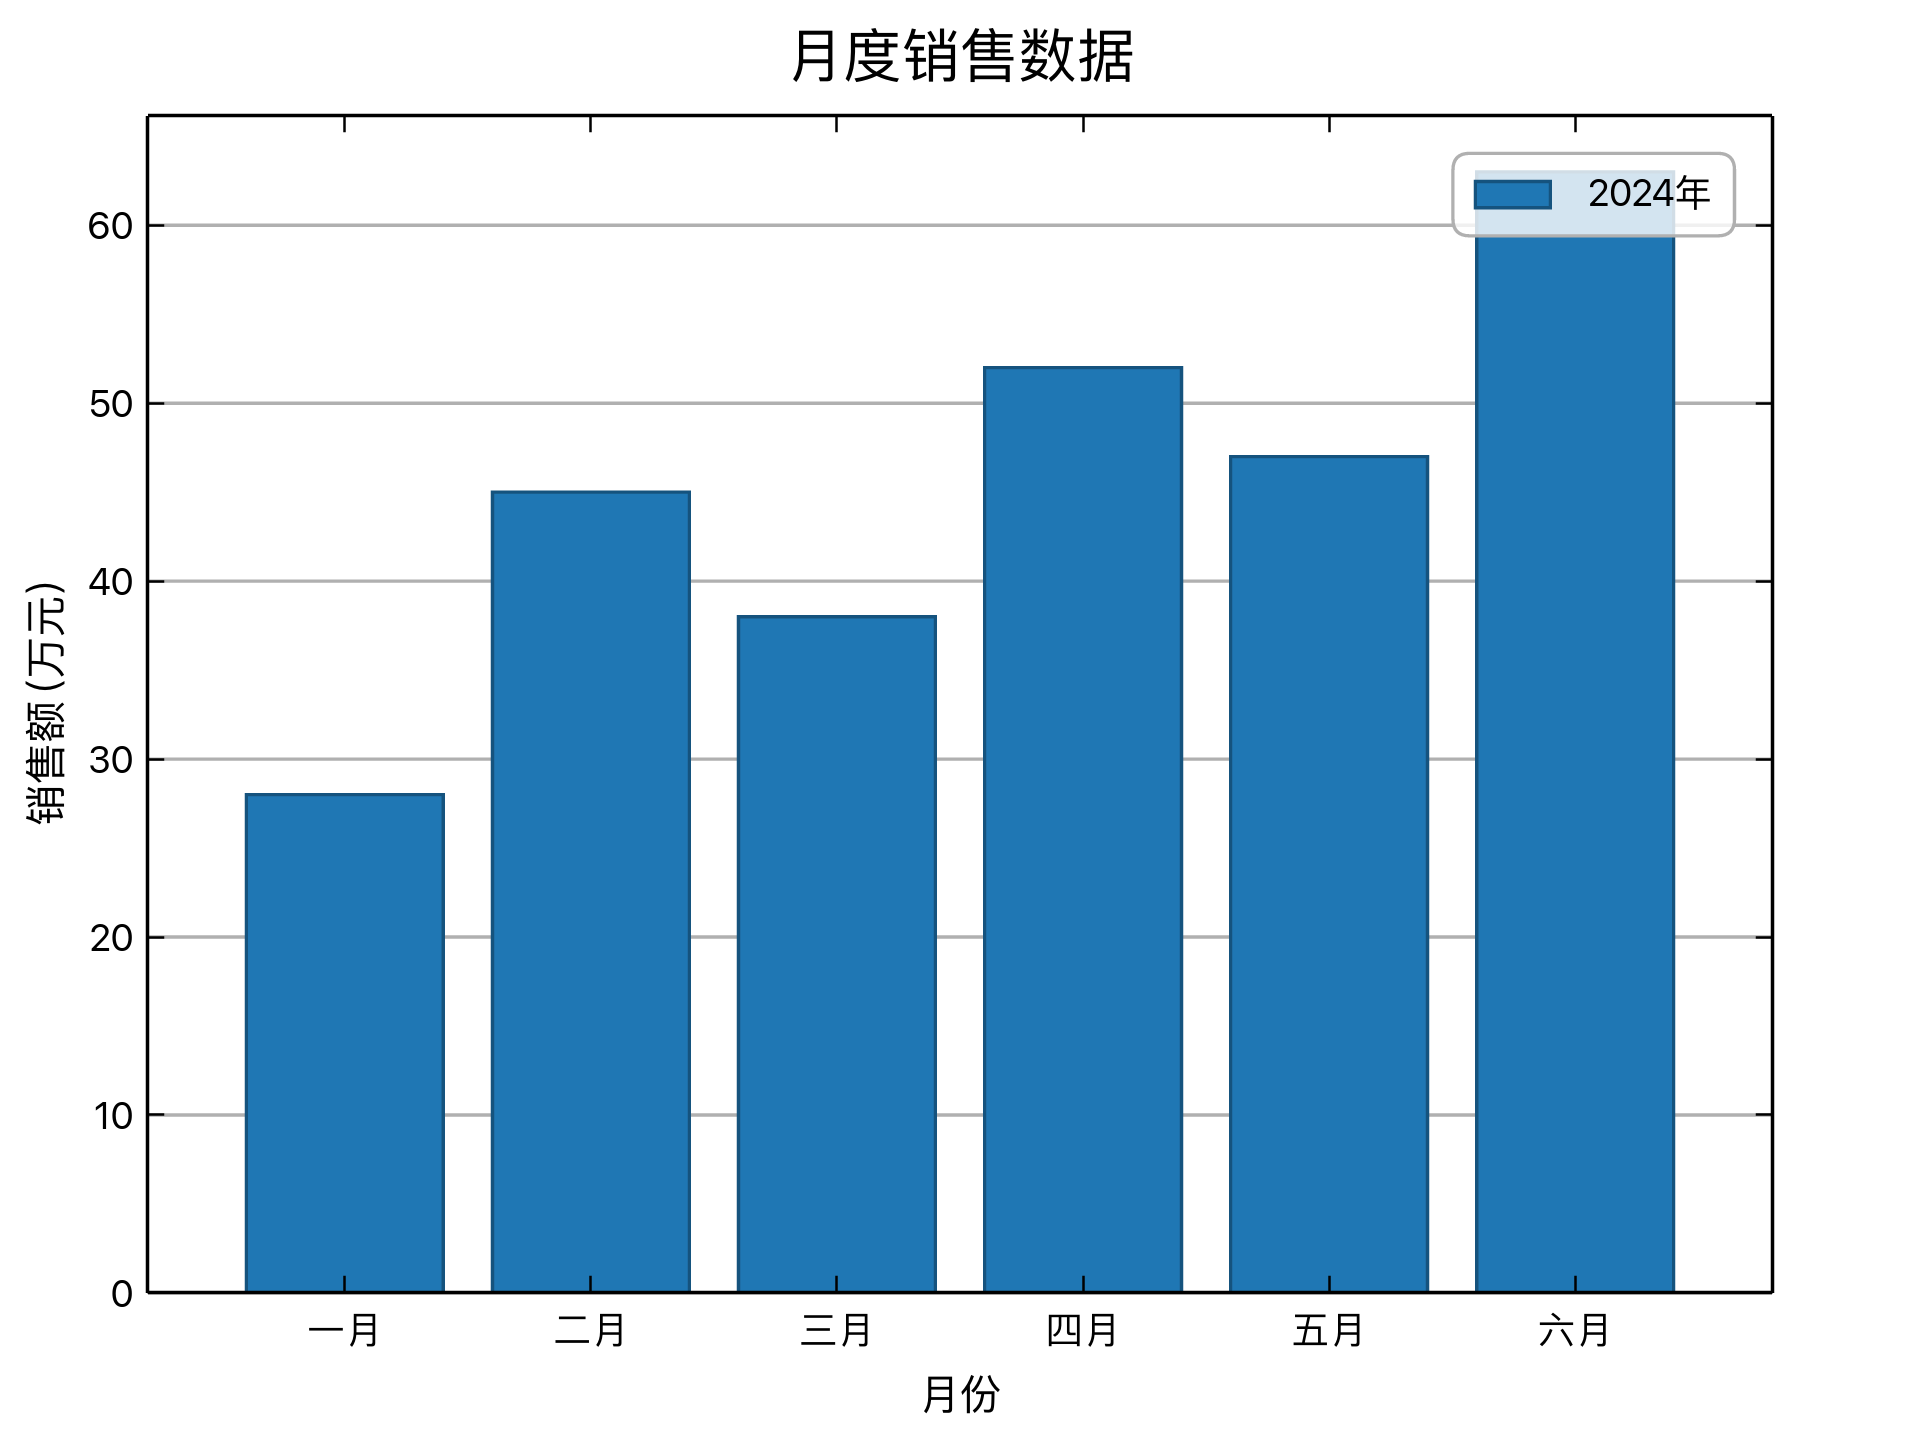
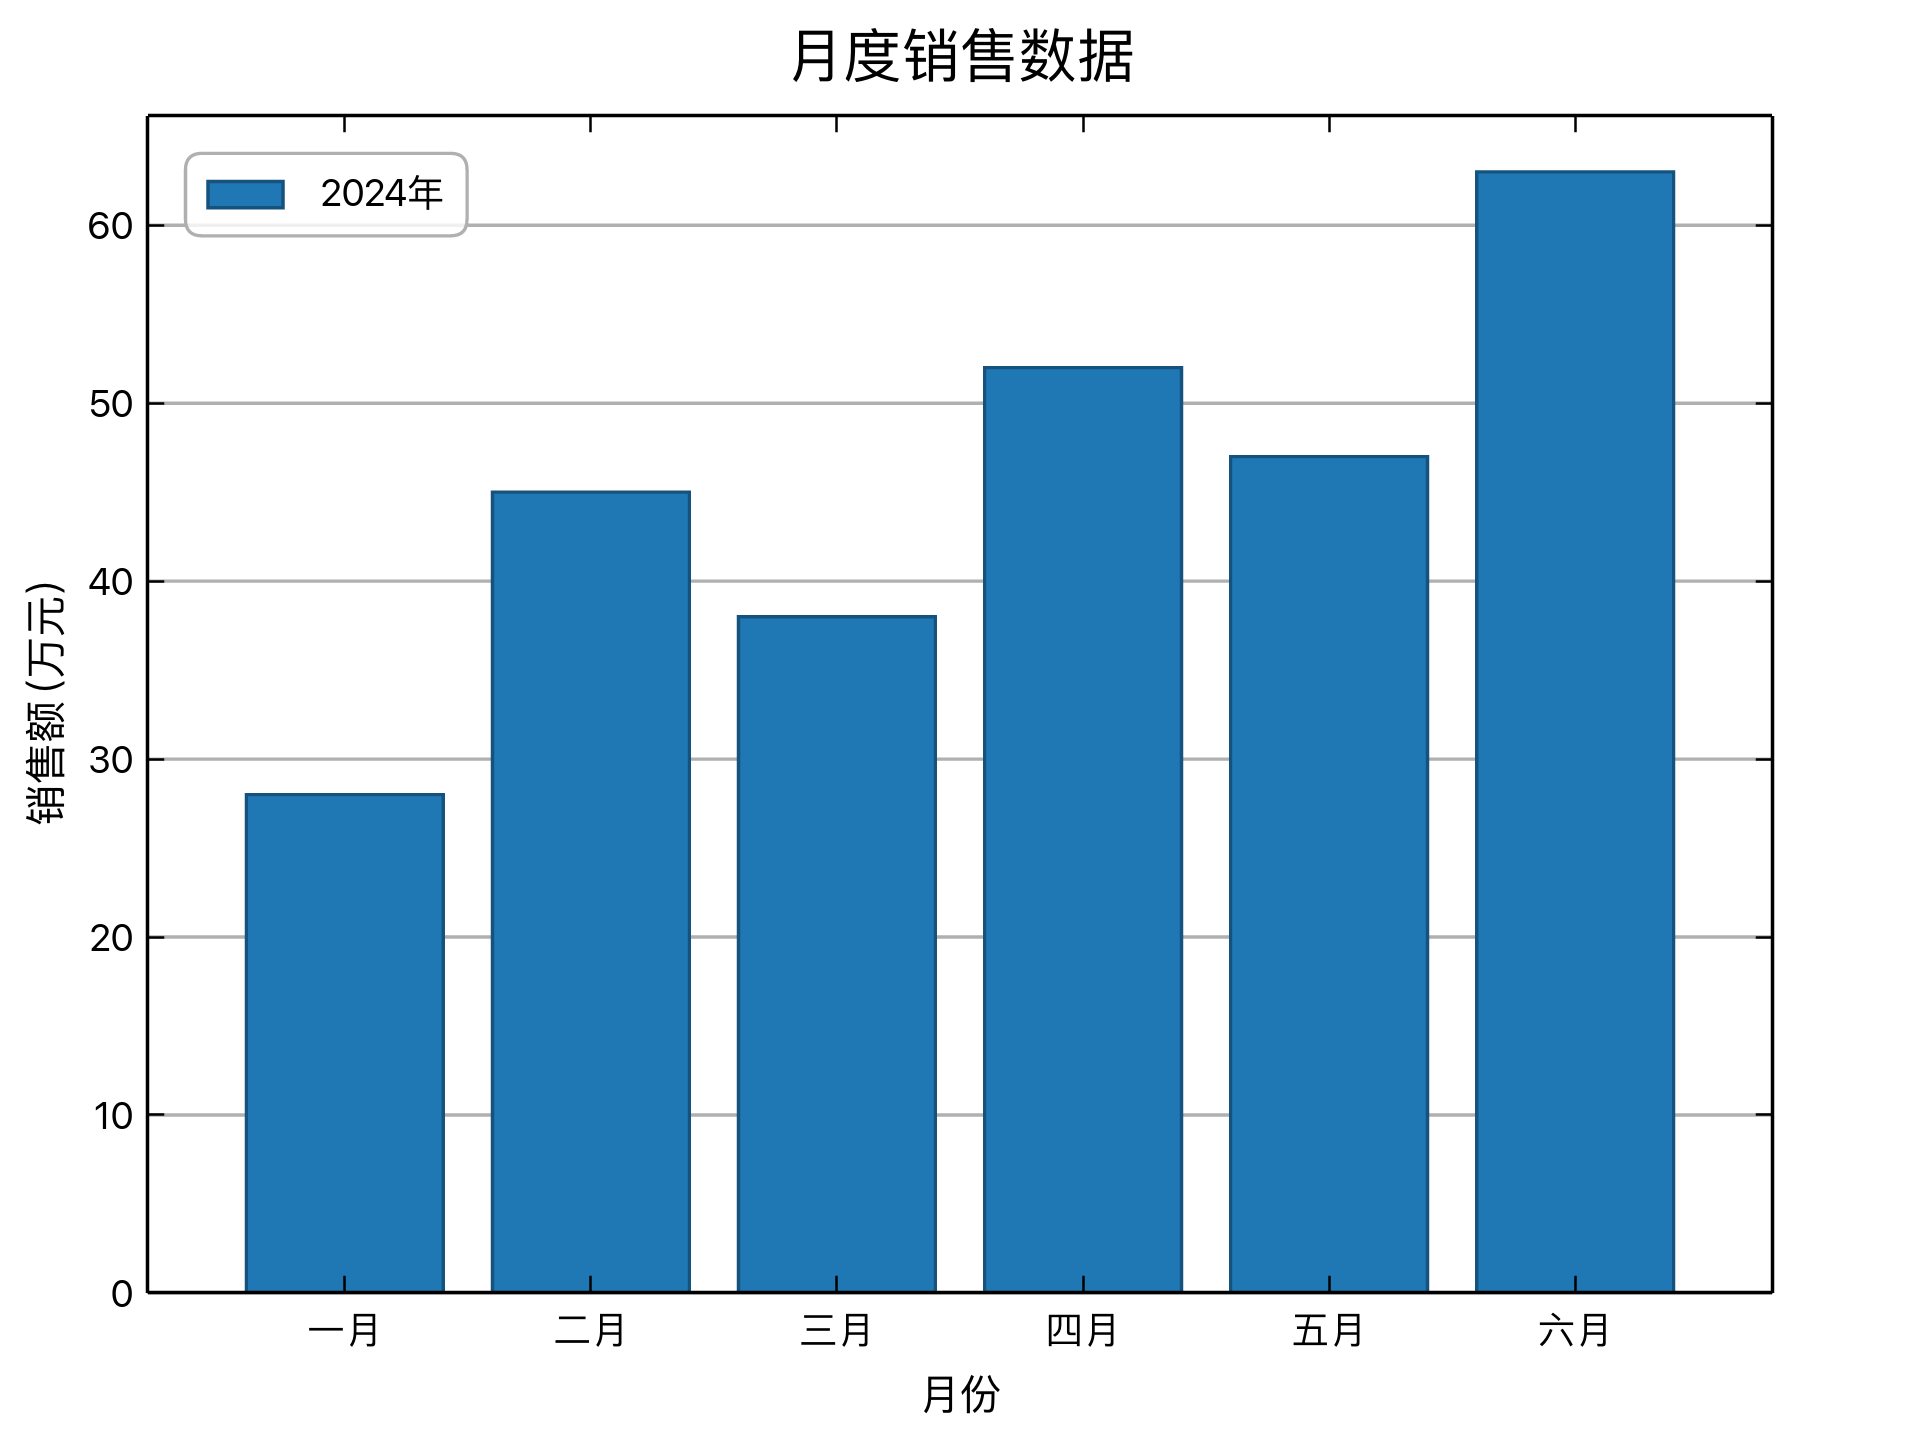
docs: add title and legend layout examples

Changed region(s): [[0.75, 0.0938, 0.9062, 0.1875], [0.0938, 0.0938, 0.25, 0.1875]]

diff --git a/src/core/plot/annotations.rs b/src/core/plot/annotations.rs
@@ -16,7 +16,8 @@ impl Plot {
     /// Configure legend with new position system
     ///
     /// Uses the matplotlib-compatible position codes including:
-    /// - `LegendPosition::Best` - automatic position to minimize data overlap
+    /// - `LegendPosition::Best` - automatic inside position minimizing overlap
+    ///   with visible lines, markers, bars, and error bars
     /// - `LegendPosition::UpperRight`, `UpperLeft`, etc. - standard positions
     /// - `LegendPosition::OutsideRight`, etc. - outside plot positions
     ///
@@ -47,8 +48,10 @@ impl Plot {
 
     /// Enable legend with "best" automatic positioning
     ///
-    /// This is equivalent to matplotlib's `plt.legend()`. The legend will be placed
-    /// in the position that minimizes overlap with data points.
+    /// This is equivalent to matplotlib's `plt.legend()`. The legend stays
+    /// inside the axes and chooses the position with the least overlap against
+    /// a bounded screen-space mask of visible lines, markers, bars, and error
+    /// bars. Unlabeled visible series participate; hidden series do not.
     ///
     /// Note: Like matplotlib, legends are NOT shown unless you explicitly call
     /// `legend_best()` or `legend_position()`, even if series have labels.

diff --git a/src/core/plot/construction.rs b/src/core/plot/construction.rs
@@ -475,6 +475,14 @@ impl Plot {
 
     /// Set the plot title
     ///
+    /// Long 2D titles wrap at Unicode line-break opportunities within the axes
+    /// width. Automatic wrapping uses at most two lines per authored paragraph;
+    /// explicit newlines remain hard breaks. When needed, the title shrinks in
+    /// 0.25-point steps to the larger of 6 points or 70% of the configured
+    /// title size, then ellipsizes the second automatic line. Fixed and
+    /// proportional margins remain authoritative, so rendering returns a
+    /// layout error if even the minimum title cannot fit.
+    ///
     /// # Example
     ///
     /// ```rust,no_run

diff --git a/src/core/plot/builder.rs b/src/core/plot/builder.rs
@@ -825,9 +825,10 @@ where
 
     // ===== Plot-level method forwarding =====
 
-    /// Set plot title
+    /// Set the 2D plot title.
     ///
-    /// This method forwards to the inner Plot.
+    /// This method forwards to the inner [`Plot`], including its Unicode-aware
+    /// wrapping and minimum-size fitting behavior.
     pub fn title(mut self, title: impl Into<super::PlotText>) -> Self {
         self.plot = self.plot.title(title);
         self

diff --git a/CHANGELOG.md b/CHANGELOG.md
@@ -2,6 +2,19 @@
 
 All notable changes to this project will be documented in this file.
 
+## [Unreleased]
+
+### Fixed
+
+- Long 2D plot titles now wrap at Unicode line-break opportunities and shrink
+  only when two automatic lines do not fit. Authored newlines remain hard
+  breaks, the configured title size remains the preferred maximum, and PNG
+  and SVG rendering share the same resolved text layout (#175).
+- `LegendPosition::Best` now scores a bounded 64×64 screen-space mask of the
+  visible line, marker, bar, and error-bar geometry. Dense sampling no longer
+  changes the score, unlabeled visible series still reserve space, hidden
+  series do not, and PNG and SVG resolve the same inside placement (#176).
+
 ## [0.12.0] - 2026-08-22
 
 ### Added
